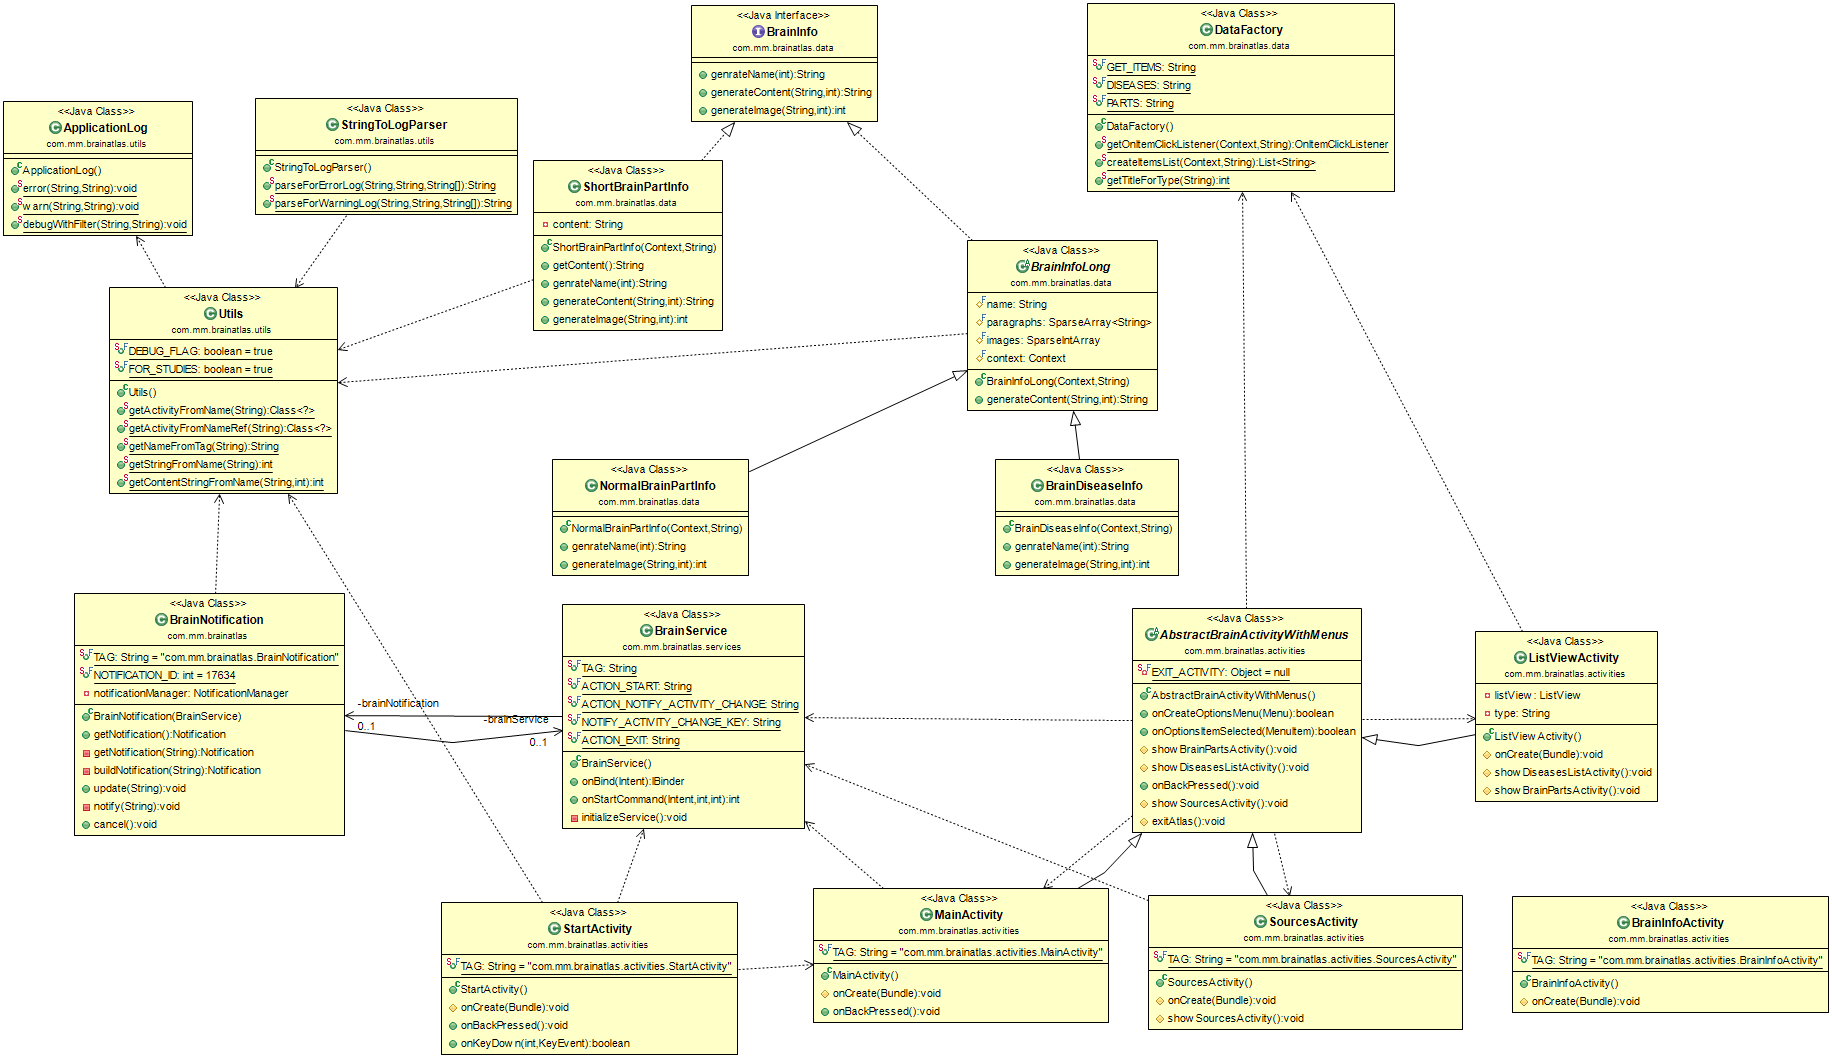
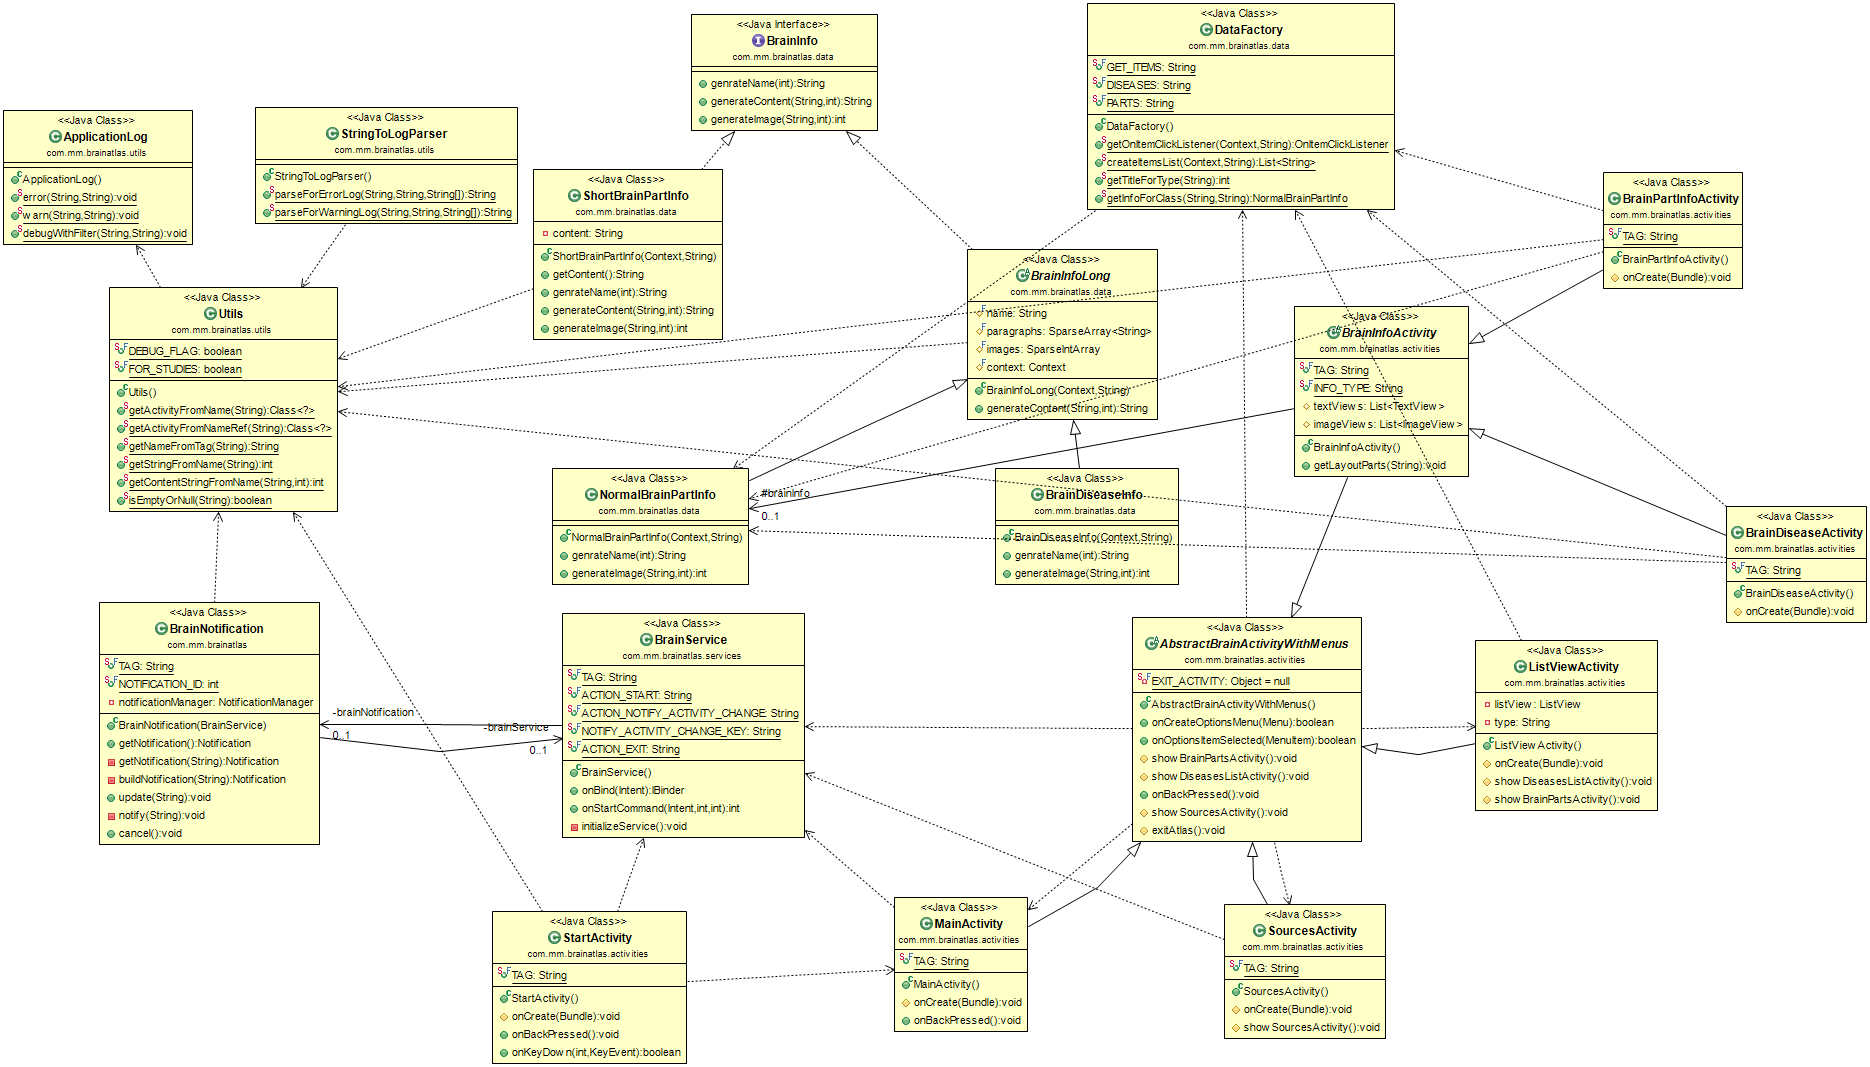
Brain disease activity added, minor changes in class diagram, new abstract level for brain info added

diff --git a/brainatlas-android/src/com/mm/brainatlas/activities/BrainInfoActivity.java b/brainatlas-android/src/com/mm/brainatlas/activities/BrainInfoActivity.java
@@ -1,14 +1,49 @@
 package com.mm.brainatlas.activities;
 
-import android.app.Activity;
-import android.os.Bundle;
+import java.lang.reflect.Field;
+import java.util.ArrayList;
+import java.util.List;
 
-public class BrainInfoActivity extends Activity {
+import android.widget.ImageView;
+import android.widget.TextView;
+
+import com.mm.brainatlas.data.BrainInfoLong;
+import com.mm.brainatlas_android.R;
+
+public abstract class BrainInfoActivity extends AbstractBrainActivityWithMenus {
 	
 	public static final String TAG = "com.mm.brainatlas.activities.BrainInfoActivity";
+	public static final String INFO_TYPE = "is_it_part_or_disease";
+	public static final String UNKNOWN_INFO = "incorect_type";
 	
-	@Override
-	protected void onCreate(Bundle savedInstanceState) {
-		super.onCreate(savedInstanceState);
+	protected List<TextView> textViews;
+	protected List<ImageView> imageViews;
+	protected BrainInfoLong brainInfo;
+	
+	public void getLayoutParts(String prefix) {
+		textViews = new ArrayList<TextView>();
+		imageViews = new ArrayList<ImageView>();
+		String text = prefix + "textview";
+		String image = prefix + "imageview";
+		Class<?> refClass = R.id.class;
+		for (Field f : refClass.getFields()) {
+			if (f.getName().contains(text)) {
+				try {
+					textViews.add((TextView) findViewById(f.getInt(refClass)));
+				} catch (IllegalAccessException e) {
+					e.printStackTrace();
+				} catch (IllegalArgumentException e) {
+					e.printStackTrace();
+				}
+			} else if (f.getName().contains(image)) {
+				try {
+					imageViews.add((ImageView) findViewById(f.getInt(refClass)));
+				} catch (IllegalAccessException e) {
+					e.printStackTrace();
+				} catch (IllegalArgumentException e) {
+					e.printStackTrace();
+				}
+			}
+		}
 	}
 }

diff --git a/brainatlas-android/src/com/mm/brainatlas/data/DataFactory.java b/brainatlas-android/src/com/mm/brainatlas/data/DataFactory.java
@@ -4,6 +4,8 @@ import java.lang.reflect.Field;
 import java.util.ArrayList;
 import java.util.List;
 
+import com.mm.brainatlas.activities.BrainDiseaseActivity;
+import com.mm.brainatlas.activities.BrainPartInfoActivity;
 import com.mm.brainatlas.utils.Utils;
 import com.mm.brainatlas_android.R;
 
@@ -65,8 +67,15 @@ public class DataFactory {
 		return R.string.bp_title;
 	}
 
-	public static NormalBrainPartInfo getInfoForClass(String tag) {
-		return null;
+	public static BrainInfoLong getInfoForClass(Context context, String tag, String infoSubject) {
+		BrainInfoLong result = null;
+		if (tag.contains("BrainPartInfoActivity")) {
+			result = new NormalBrainPartInfo(context, infoSubject);
+			//TODO: fill with data;
+		} else if (tag.contains("BrainDiseaseActivity")) {
+			result = new BrainDiseaseInfo(context, infoSubject);
+		}
+		return result;
 	}	
 
 }

diff --git a/brainatlas-android/src/com/mm/brainatlas/activities/BrainDiseaseActivity.java b/brainatlas-android/src/com/mm/brainatlas/activities/BrainDiseaseActivity.java
@@ -6,21 +6,20 @@ import com.mm.brainatlas_android.R;
 
 import android.os.Bundle;
 
-public class BrainPartInfoActivity extends BrainInfoActivity {
-	
-	public static final String TAG = "com.mm.brainatlas.activities.BrainPartInfoActivity";
+public class BrainDiseaseActivity extends BrainInfoActivity {
+
+	public static final String TAG = "com.mm.brainatlas.activities.BrainDiseaseActivity";
 	
 	@Override
 	protected void onCreate(Bundle savedInstanceState) {
 		super.onCreate(savedInstanceState);
-		setContentView(R.layout.brain_parts);
-		getLayoutParts("bp_");
+		setContentView(R.layout.brain_disease);
+		getLayoutParts("bd_");
 		String infoSubject = getIntent().getStringExtra(INFO_TYPE);
 		if (Utils.isEmptyOrNull(infoSubject)) {
 			infoSubject = UNKNOWN_INFO;
 		}
 		brainInfo = DataFactory.getInfoForClass(TAG, infoSubject);
-		
 	}
-
+	
 }

diff --git a/brainatlas-android/src/com/mm/brainatlas/utils/Utils.java b/brainatlas-android/src/com/mm/brainatlas/utils/Utils.java
@@ -46,6 +46,13 @@ public class Utils {
 		// TODO Auto-generated method stub
 		return 0;
 	}
+
+	public static boolean isEmptyOrNull(String string) {
+		if (string == null || string.isEmpty() || string.equals("") || string.length() < 1) {
+			return true;
+		}
+		return false;
+	}
 	
 
 }
